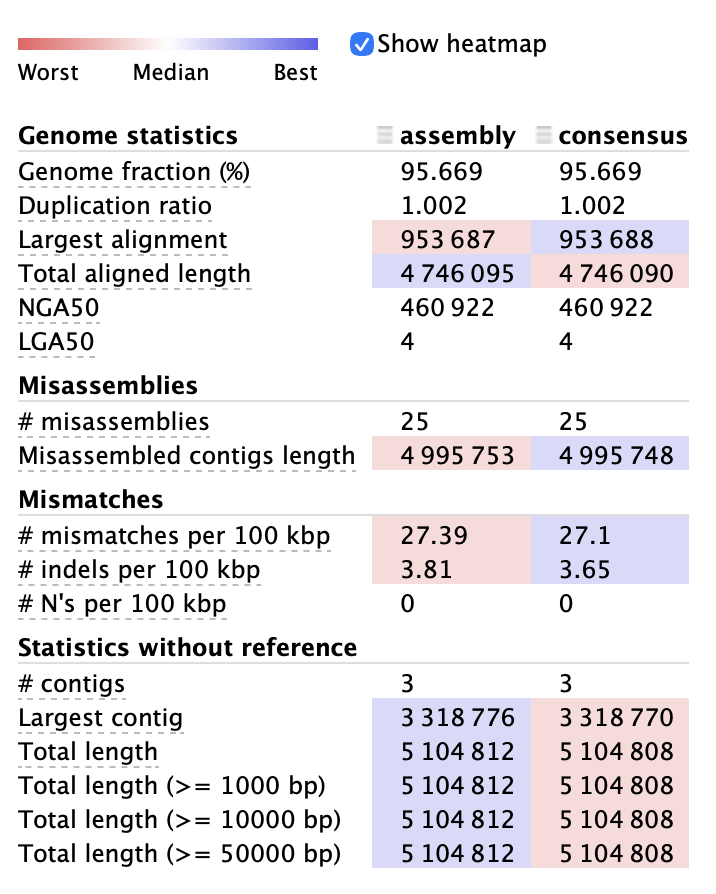
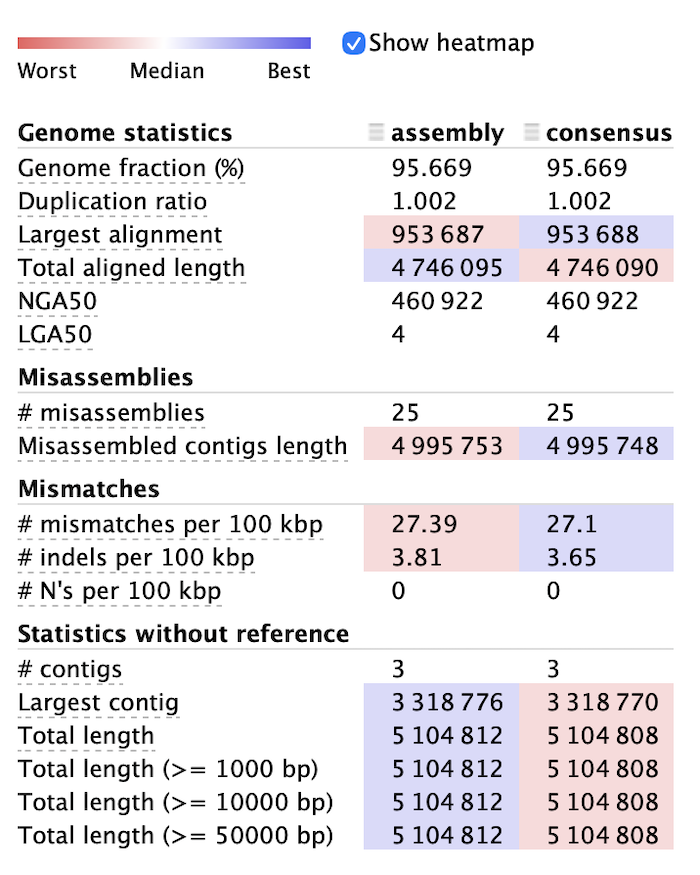
Resized figure for quast comparison and adding variant calling result to readme

diff --git a/README.md b/README.md
@@ -28,14 +28,24 @@ Genome assembly will be performed using Flye with the `--nano-hq` preset, which 
 
 For variant detection, raw Oxford Nanopore reads will be aligned directly to the reference genome using minimap2 with the `-ax map-ont` preset. Variant calling will be performed using Clair3 to identify single nucleotide variants and small insertions and deletions relative to the reference genome.
 
+## Results
 ### Assembly
 
 The genome assembly was generated from Oxford Nanopore reads using Flye `--nano-hq` and compared to the *S. enterica* reference genome (GCF_000006945.2_ASM694v2) using QUAST (Fig. 1). The Flye HQ assembly consisted of **3 contigs**, with a total length of **5,104,812 bp** and a largest contig of **3,318,776 bp**. QUAST reported a genome fraction of **95.669%** and a duplication ratio of **1.002**, indicating strong overall agreement with the reference. The assembly contained **25 misassemblies**, with **27.39 mismatches per 100 kbp** and **3.81 indels per 100 kbp**.
 
 For comparison, an exploratory baseline Flye `--nano-raw` assembly was more fragmented (**9 contigs**; largest contig **1,576,260 bp**), while the overall genome fraction remained similar (**95.391%**). Medaka polishing of the Flye HQ assembly produced minimal changes in QUAST summary metrics (genome fraction remained **95.669%**, contigs remained **3**), so the Flye HQ assembly was used as the primary assembly for downstream alignment inspection.
 
-![Fig. 1. QUAST summary comparing the Flye HQ assembly (assembly) and Medaka polished consensus (consensus) to the *S. enterica* reference genome. Polishing resulted in minimal changes to contiguity and error metrics.](figures/quast_flye_hq_vs_ref_summary.png)
+![QUAST summary comparing Flye HQ assembly and Medaka consensus](figures/quast_flye_hq_vs_ref_summary.png)
 
+**Figure 1.** QUAST summary comparing the Flye HQ assembly (assembly) and Medaka-polished consensus (consensus) against the *S. enterica* reference genome. Polishing resulted in minimal changes to contiguity and error metrics.
+
+### Variant Calling
+
+Variants were identified by aligning raw Oxford Nanopore reads directly to the S. enterica reference genome using minimap2 (`map-ont`), followed by variant calling with Clair3. Variant statistics were summarized using bcftools.
+
+On the primary chromosome (NC_003197.2), a total of **2,958 variants** were detected, consisting of **2,462 SNPs** and **504 indels**. The secondary replicon (NC_003277.2) showed a higher variant density (**7,589 total variants**), including **6,905 SNPs** and **688 indels**.
+
+These results indicate that while the overall assembly is structurally consistent with the reference genome, substantial base-level variation remains detectable, particularly in the secondary replicon.
 
 ## References
 
